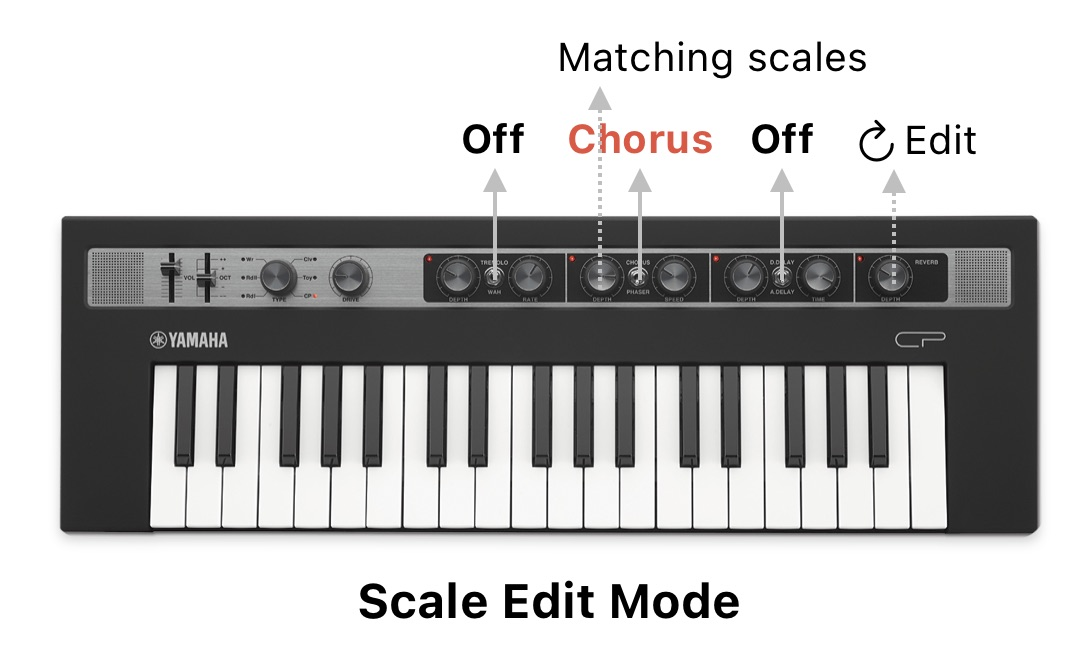
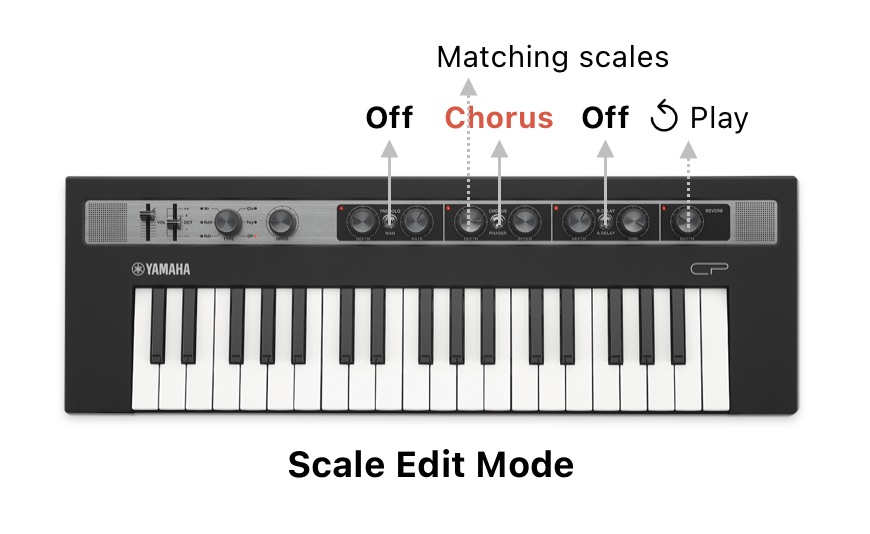
added documentation

Changed region(s): [[0.031, 0.0599, 0.9621, 0.9588]]

diff --git a/README.md b/README.md
@@ -5,15 +5,18 @@ RefaceCPLiveControl is an Ableton Live Control Surface script for the Yamaha Ref
 ## Table of Contents
 
 1. [Installation](#installation)
-2. [Controls](#controls)
-	1. [Wave type knob (MIDI Channel Change)](#wave-type-knob)
-	2. [Tremolo/Wah toggle (Device control)](#tremolowah-toggle)
-	3. [Chorus toggle (Scale mode)](#chorus-toggle)
+2. [Features](#features)
+	1. [MIDI Transmit Channel](#midi-transmit-channel)
+	2. [Device Control Mode](#device-control-mode)
+	3. [Device Lock Mode](#device-control-mode)
+	4. [Track Mode](#track-mode)
+	5. [Device Randomization Mode](#device-randomization-mode)
+	6. [Scale Mode](#scale-mode)
 		1. [Scale Play Mode](#scale-play-mode)
 		2. [Scale Edit Mode](#scale-edit-mode)
-	4. [Phaser toggle (Clip trigger mode)](#phaser-toggle)
-	5. [D.Delay toggle (Note repeat)](#ddelay-toggle)
-	6. [A.Delay toggle (Navigation/Transport mode)](#adelay-toggle)
+	7. [Clip Trigger Mode](#clip-trigger-mode)
+	8. [Note Repeat Mode](#note-repeat-mode)
+	9. [Navigation/Transport Mode](#navigationtransport-mode)
 		1. [C  (*Stop actions*)](#c--stop-actions)
 		2. [C# (*Recording actions*)](#c--recording-actions)
 		3. [D  (*Play actions*)](#d--play-actions)
@@ -46,42 +49,93 @@ This can also be done automatically with the provided `make install` command.
 
 For more help, see [Installing third-party remote scripts](https://help.ableton.com/hc/en-us/articles/209072009-Installing-third-party-remote-scripts) from Ableton.
 
-## Controls
+## Features
 
-### Wave type knob:
+### MIDI Transmit Channel:
 
-Changes the MIDI transmit channel from 1 (Rdl type) to 6 (CP type). MIDI tracks with an input routing from the `reface CP` source and the selected MIDI channel are automatically selected and armed. This is useful to quickly change and play instruments from tracks on specific MIDI channels. 
+In most of the available modes, the **Wave type knob** can be used to change the MIDI transmit channel from 1 (Rdl type) to 6 (CP type). 
+
+MIDI tracks with an input routing from the `reface CP` source and the selected MIDI channel are automatically selected and armed. This is useful to quickly change and play instruments from tracks on specific MIDI channels. 
 
 This also provides a lot more of flexibility to the custom MIDI mappings since each control can be mapped to any Live parameter across all 6 MIDI channels, effectively bringing up to 48 knobs, 18 toggles and 510 note keys for MIDI mapping in a Live Set.
 
 *Note*: When mapping a control or key from the Reface using the custom user mapping Live overrides any special behaviour added by the script but in this case its functionality can still be reached by changing to any of the remaining unmapped MIDI channels for that control. Just prevent MIDI mapping the `type` knob so the channel can be changed.
 
-### Tremolo/Wah toggle:
+### Device Control Mode:
 
-* **Off**: When the switch is in the middle position (off), the 8 right-most knobs follow and control the selected device.
+Turn *off* the Tremolo/Wah switch (middle position) to enable the Device Control Mode. 
+In this mode, the 8 right-most knobs from the Reface follow and control the first bank parameters of the currently selected device.
 
 <p align="center">
 	<img src="Images/device_mode.jpg" alt="Device Mode" width="50%" />
 </p>
 
+Under this mode, the **Wave type knob** can be used to change the MIDI transmit channel. 
 
-* **Tremolo On**: When the switch is enabled, the 8 right-most knobs are locked to control a specific device.
+### Device Lock Mode:
+
+Turn *on* the Tremolo switch (up position) to enable the Device Lock Mode. 
+This locks the currently selected device so the 8 right-most knobs of the Reface can be used to control that specific device even when the selection in Live changes afterwards.
 
 <p align="center">
 	<img src="Images/locked_device_mode.jpg" alt="Locked Device Mode" width="50%" />
 </p>
 
-While the device is locked, the **Wave type knob** can be used to select the device parameter bank. 
+While a device is locked, the **Wave type knob** can be used to select the device parameter bank from 1 (Rdl) to 5 (Toy).
+Wave type 6 (CP) is reserved to select the [Device Randomization Mode](#device-randomization-mode).
 
-* **Wah On**: Enables the **Track mode**. This allows changing the selected track's volume, panning, sends A and B as well as the Mute, Solo and Arm buttons. In this mode the `Drive` knob is connected to the currently selected parameter in Live which can be very handy for quick automations.
+### Track Mode:
+
+Turn *on* the Wah switch (down position) to enable the Track Mode. 
+This allows changing the selected track's volume, panning, sends A and B as well as the Mute, Solo and Arm buttons. 
+
+In this mode the `Drive` knob is connected to the currently selected parameter in Live which can be very handy for quick automations.
+
+The following controls apply in this mode:
+* **Wave type**: Set MIDI Transmit channel.
+* **Drive**: Current selected parameter.
+* **Tremolo Depth**: Selected track volume.
+* **Tremolo Rate**: Selected track panning.
+* **Chorus Depth**: Selected track send A.
+* **Chorus Speed**: Selected track send B.
+* **Delay Depth**: Selected track mute.
+* **Delay Time**: Selected track solo.
+* **Reverb Depth**: Selected track arm.
 
 <p align="center">
 	<img src="Images/track_mode.jpg" alt="Track Mode" width="50%" />
 </p>
 
-### Chorus toggle:
+### Device Randomization Mode
 
-Enables the **Scale mode**. This includes two sub-modes (Play/Edit) which can be toggled by turning the **Reverb Depth** knob left/right.
+To enable this mode, first lock the controls to a device by turning *on* the Tremolo switch (up position) and then select the last **Wave Type** 6 (CP). 
+This mode can be used to create new presets for the device by morphing between the current preset and a target preset.
+
+When entering this mode, the current values of all the device's parameters are stored and a new random variation is created. 
+Using the **Drive** knob it applies a morphing amount between the original and the target preset and thus allows transitioning between all intermediate values.
+Everytime the **Tremolo Rate** knob is turned left or right a new set of random values are created and used as a target preset.
+The number of parameters that are affected can be changed with the **Tremolo Depth** knob.
+
+Any parameter can be excluded from the randomization by selecting the desired value in the device. When a parameter is manually changed in the device it will become a fixed value in the target preset.
+This can be used to load another preset and then morph between both.
+This list of excluded parameters is cleared out when the Device Randomization Mode is disabled.
+
+Note that with more complex devices like instruments or those with toggle controls are more difficult to morph smoothly and it works better with linear parameters. Excluding some of those parameters might help when finding a new preset to morph to.
+
+The following controls apply in this mode:
+* **Wave type**: Select device parameter bank (1-5) or enable the Device Randomization Mode (6-CP)
+* **Drive**: Morphing Amount.
+* **Tremolo Depth**: Morphing Length.
+* **Tremolo Rate**: Randomize target values.
+
+<p align="center">
+	<img src="Images/device_randomization_mode.jpg" alt="Device Randomization Mode" width="50%" />
+</p>
+
+### Scale Mode:
+
+Turn *on* the Chorus switch (up position) to enable the Scale Mode.
+This mode includes two sub-modes (Play/Edit) which can be toggled by turning the **Reverb Depth** knob left/right.
 
 #### Scale Play Mode:
 
@@ -90,10 +144,10 @@ In this mode, only the note keys that are part of the current scale will reach L
 By default, when enabling the scale mode it always starts with the Scale Play mode.
 
 The following controls apply while in the Scale Play Mode:
-
+* **Wave type**: Set MIDI Transmit channel.
 * **Chorus Depth**: Root note. Move the knob to select the current root note.
-
 * **Chorus Speed**: Scale mode. Move the knob to select the current scale mode.
+* **Reverb Depth**: Enter Scale Edit Mode (right).
 
 <p align="center">
 	<img src="Images/scale_play_mode.jpg" alt="Scale Play Mode" width="50%" />
@@ -105,15 +159,18 @@ In this mode, the first note pressed on the keyboard sets the root note. While h
 
 Once all keys are released a list of all the possible scales that include all the entered notes will be populated and the first root and scale match is automatically changed in Live.
 
+The following controls apply while in the Scale Edit Mode:
 * **Chorus Depth**: Matching scales. Move the knob to cycle between all the matching root/scales found that include all the entered notes.
+* **Reverb Depth**: Exit Scale Edit Mode (left).
 
 <p align="center">
 	<img src="Images/scale_edit_mode.jpg" alt="Scale Edit Mode" width="50%" />
 </p>
 
-### Phaser toggle:
+### Clip Trigger Mode:
 
-Enables the **Clip trigger mode**. This allows clip/scene triggering using all MIDI note keys except keys C# and D# which are reserved for special functions:
+Turn *on* the Phaser switch (down position) to enable the Clip trigger mode.
+This allows clip/scene triggering using all MIDI note keys except keys C# and D# which are reserved for special functions:
 
 * Press and hold C# + clip note key to stop the clip.
 * Press and hold C# + upper/lower C# to stop all clips.
@@ -122,13 +179,9 @@ Enables the **Clip trigger mode**. This allows clip/scene triggering using all M
 Pressing a new key while another one is being held down allows playing the different clips from the same track in legato mode. This also works with the stop key (C#) so it can be used as some sort of temporal mute when triggering clips. This feature can be enabled/disabled with the `CLIP_TRIGGER_DEFAULT_LEGATO_ENABLED` setting.
 
 The following controls apply in this mode:
-
 * **Drive**: Global clip trigger quantization.
-
 * **Tremolo Depth**: Horizontal grid offset. Use this knob to move the clip grid highlight horizontally.
-
 * **Tremolo Rate**: Vertical grid offset. Use this knob to move the clip grid highlight vertically.
-
 * **Chorus Depth**: Note Key Layout. There are multiple keyboard layouts available for triggering clips. Move this knob to switch between these:
 	* 1 octave per track (allow triggering up to 10 clips per track)
 	* 2 octaves per track (allow triggering up to 20 clips per track)
@@ -138,7 +191,6 @@ The following controls apply in this mode:
 	* 3 octaves per scene (allow triggering clips from same scene across 30 tracks)
 	* 2 octaves per scene (allow triggering clips from same scene across 20 tracks)
 	* 1 octave per scene (allow triggering clips from same scene across 10 tracks)
-
 * **Chorus Speed**: Clip/Scene triggering. Move this knob to the left to target clips for triggering. Move it to the right to target scenes.
 
 By default, when enabling the Clip trigger mode, the clip names are renamed to show the MIDI key that can be used to fire each clip. This behaviour can be disabled by changing the `CLIP_TRIGGER_NAME_PREFIXES_ENABLED` setting to `False`.
@@ -147,12 +199,13 @@ By default, when enabling the Clip trigger mode, the clip names are renamed to s
 	<img src="Images/clip_trigger_mode.jpg" alt="Clip Trigger Mode" width="50%" />
 </p>
 
-### D.Delay toggle:
+### Note Repeat Mode:
 
-Enables the **Note repeat mode**. In this mode, the MIDI notes from the keyboard are repeated automatically while they're pressed. Once enabled, the knobs control some settings for the note repeat:
+Turn *on* the D.Delay switch (up position) to enable the Note Repeat Mode.
+In this mode, the MIDI notes from the keyboard are repeated automatically while they're pressed. 
 
+The following controls apply in this mode:
 * **Delay Time**: Sets the note repeat rate using fixed values from 1/32T to 1 bar.
-
 * **Delay Depth**: Sets the note repeat rate by specifying the number of notes per bar.
 
 <p align="center">
@@ -161,14 +214,14 @@ Enables the **Note repeat mode**. In this mode, the MIDI notes from the keyboard
 
 Selecting the track/device mode after enabling the note repeat allows using the knobs for automation and the note repeat functionality at the same time. To change the note repeat settings again using the knobs it needs to be disabled and enabled again.
 
-### A.Delay toggle:
+### Navigation/Transport Mode:
 
-Enables the **Navigation/Transport mode**. In this mode the knobs are used for navigation and the note keys for transport actions and more.
+Turn *on* the A.Delay switch (down position) to enable the Navigation/Transport Mode.
+In this mode the knobs are used for navigation and the note keys for transport actions and more.
 
+The following controls apply in this mode:
 * **Drive**: Track navigation. Move the knob to change the track selection including sends and the master track. Since the knobs in the Reface CP are not endless the navigation will only work well for up to 127 tracks. If you have more than 127 tracks in your Live Set then some of the tracks won't be accessible using this knob but usually this doesn't happen unless you're Jacob Collier. In any case, the track can still be selected manually or using some of the actions from the list below.
-
 * **Tremolo Depth**: Clip navigation. Move the knob to change the clip selection in the current track. Again, since the knobs in the Reface CP are not endless the clip selection works fine for up to 127 scenes. Still, some simple navigation can be performed using some of the actions from the list below.
-
 * **Tremolo Rate**: Device navigation. Move the knob to change the device selection in the current track. This also has the 127 device limit.
 
 <p align="center">
